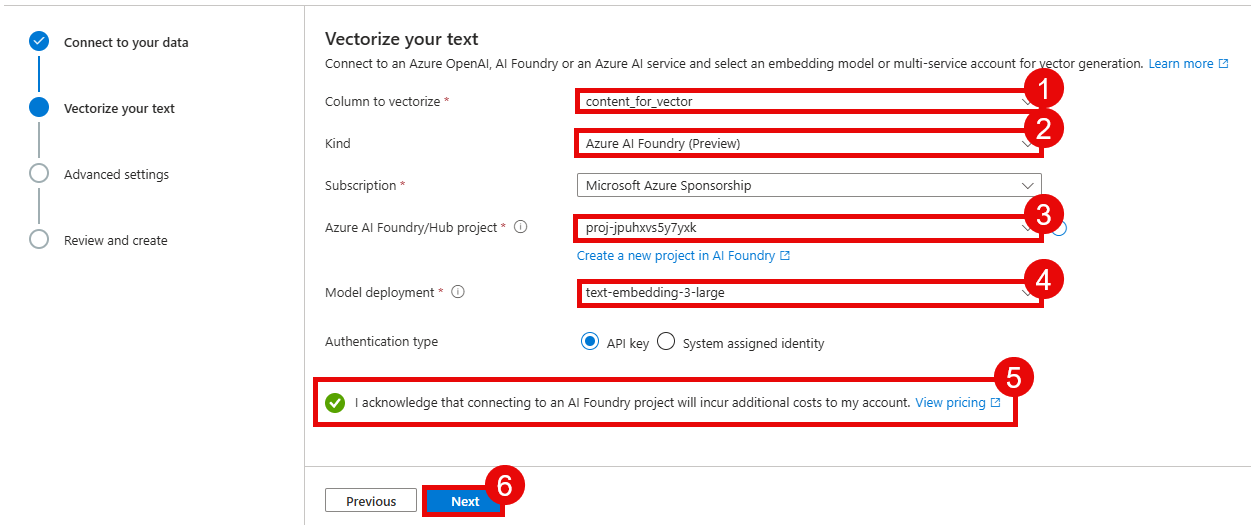
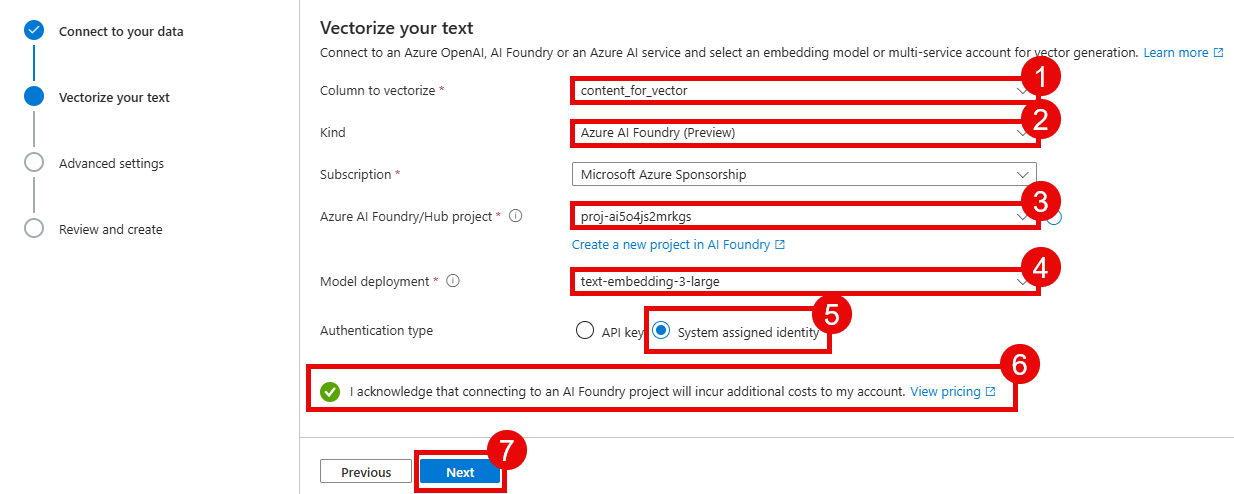
Update to support managed identities

diff --git a/src/pipelines/ingest_to_cosmos.py b/src/pipelines/ingest_to_cosmos.py
@@ -27,7 +27,7 @@ df['content_for_vector'] = (
 
 # 2. Connect to Cosmos DB
 logger = logging.getLogger(__name__)
-logging.basicConfig(level=logging.INFO)
+logging.basicConfig(level=logging.WARNING)
 
 
 def get_cosmos_client(endpoint: str | None, key: str | None = None):

diff --git a/docs/01_deploy_configure_resources/01_01.md b/docs/01_deploy_configure_resources/01_01.md
@@ -153,24 +153,26 @@ az login --use-device-code
 
 Follow the on-screen instructions to complete the sign-in process.
 
-Next, you will need to retrieve your signed-in user's principal ID and the principal ID of the Azure AI Search managed identity created by the Bicep script. You will also need to know the resource group name and the Cosmos DB account name. You can set these values as variables in your terminal session using the following commands:
+Next, retrieve the names of your Azure AI Search and Cosmos DB resources. You can do this by reviewing the output of the Bicep deployment in the Azure portal, or by navigating to the resource group in the portal and looking for the resources there. You will also need the resource group name, which is `techworkshop-l300-ai-agents` unless you named it differently. This script will also retrieve the signed-in user's principal ID.
 
 ```bash
 resourceGroup="techworkshop-l300-ai-agents"
 cosmosDbAccountName="{YOUR_COSMOS_DB_ACCOUNT_NAME}"
+aiSearchName="{YOUR_AZURE_AI_SEARCH_NAME}"
 principalId=`az ad signed-in-user show --query id -o tsv`
-aiSearchManagedIdentityId=`az search service show --resource-group $resourceGroup --name "{YOUR_AZURE_AI_SEARCH_NAME}" --query identity.principalId -o tsv`
 ```
 
-If your resource group is named differently, make sure to update the `resourceGroup` variable accordingly.
-
-You can retrieve the name of your Cosmos DB account by navigating to the resource group in the [Azure portal](https://portal.azure.com/) and looking for the Cosmos DB account resource. The name will be listed there.
-
-Then, run the following commands to grant your signed-in user the `Cosmos DB Built-in Data Contributor` for your Azure account, and `Cosmos DB Account Reader Role` for the Azure AI Search managed identity created by the Bicep script:
+Once you have these variables set, run the following commands. This will first enable the system-assigned managed identity for the Azure AI Search service, then retrieve its principal ID. Finally, it will run commands to grant your signed-in user the `Cosmos DB Built-in Data Contributor` for your Azure account, and `Cosmos DB Account Reader Role` for the Azure AI Search managed identity created by the Bicep script:
 
 ```bash
+az search service update --resource-group $resourceGroup --name $aiSearchName --set identity.type=SystemAssigned
+aiSearchManagedIdentityId=`az search service show --resource-group $resourceGroup --name "$aiSearchName" --query identity.principalId -o tsv`
 az cosmosdb sql role assignment create --account-name $cosmosDbAccountName --resource-group $resourceGroup --scope "/" --principal-id $principalId --role-definition-id "00000000-0000-0000-0000-000000000002"
-az role assignment create --assignee $principalId --role "Cosmos DB Account Reader Role" --scope "/subscriptions/$(az account show --query id -o tsv)/resourceGroups/$resourceGroup/providers/Microsoft.DocumentDB/databaseAccounts/$cosmosDbAccountName"
+az role assignment create --assignee $aiSearchManagedIdentityId --role "Cosmos DB Account Reader Role" --scope "/subscriptions/$(az account show --query id -o tsv)/resourceGroups/$resourceGroup/providers/Microsoft.DocumentDB/databaseAccounts/$cosmosDbAccountName"
+az cosmosdb sql role assignment create --account-name $cosmosDbAccountName --resource-group $resourceGroup --scope "/" --principal-id $aiSearchManagedIdentityId --role-definition-id "00000000-0000-0000-0000-000000000001"
+az cosmosdb sql role assignment create --account-name $cosmosDbAccountName --resource-group $resourceGroup --scope "/" --principal-id $aiSearchManagedIdentityId --role-definition-id "00000000-0000-0000-0000-000000000002"
 ```
+
+This will give your signed-in user the necessary permissions to write to Cosmos DB, as well as giving the Azure AI Search system-assigned managed identity appropriate access to read from a Cosmos DB container.
 
 </details>

diff --git a/docs/01_deploy_configure_resources/01_03.md b/docs/01_deploy_configure_resources/01_03.md
@@ -57,7 +57,7 @@ Scroll down to the **Container Vector Policy** section and select **Add vector e
 ![Configure the vector embedding for the Cosmos DB container.](../../media/Solution/0103_CosmosDB5.png)
 
 {: .note }
-> If you get an error trying to create the container indicating that vector search is not enabled, wait a few more minutes and try again.
+> If you get an error trying to create the container indicating that vector search is not enabled, close the New Container tab, wait a few more minutes and try again. It can take upwards of 15 minutes for this policy change to take effect, even if you see the policy's status as "On" in `az cli` or in the **Features** section of the **Settings** menu.
 
 </details>
 
@@ -145,11 +145,11 @@ Select **RAG** as the scenario to target.
 
 ![Select RAG as the scenario.](../../media/Solution/0103_Search3.png)
 
-In the **Connect to your data** menu section, choose your Cosmos DB account from the drop-down list. Then, select the **zava** database and the **product_catalog** container. After that, select **Next** to continue.
+In the **Connect to your data** menu section, choose your Cosmos DB account from the drop-down list. Then, select the **zava** database and the **product_catalog** container. Additionally, select the **Authenticate using managed identity.** option and ensure that the managed identity type is **System-assigned**. After that, select **Next** to continue.
 
 ![Connect to the Cosmos DB data source.](../../media/Solution/0103_Search4.png)
 
-On the **Vectorize your text** page, select `content_for_vector` from the drop-down list as the column to vectorize. Then, choose **Azure AI Foundry (Preview)** as the **Kind** and select your Azure AI Foundry project from the drop-down list. In the **Model deployment** drop-down list, choose `text-embedding-3-large`. After that, tick the checkbox indicating that connecting to an AI Foundry project will incur additional costs and select **Next** to continue.
+On the **Vectorize your text** page, select `content_for_vector` from the drop-down list as the column to vectorize. Then, choose **Azure AI Foundry (Preview)** as the **Kind** and select your Azure AI Foundry project from the drop-down list. In the **Model deployment** drop-down list, choose `text-embedding-3-large`. Then, select **System assigned identity** as the authentication type. After that, tick the checkbox indicating that connecting to an AI Foundry project will incur additional costs and select **Next** to continue.
 
 ![Configure the vectorization settings.](../../media/Solution/0103_Search5.png)
 

diff --git a/docs/01_deploy_configure_resources/01_02.md b/docs/01_deploy_configure_resources/01_02.md
@@ -88,6 +88,14 @@ Then, navigate to the Application Insights resource that you created in the firs
 
 ![Add connection for the Application Insights resource.](../../media/Solution/0102_ConnectResources6.png)
 
+Select the **+ New connection** button again and this time choose the **Azure AI Search** option from the list.
+
+![Add connection for the Azure AI Search resource.](../../media/Solution/0102_ConnectResources7.png)
+
+Then, navigate to the Azure AI Search resource that you created in the first task. From the **Authentication** menu, select **Microsoft Entra ID** to ensure that you use the system-assigned managed identity. Then, select the **Add connection** button associated with this Azure AI Search resource to make the connection. When you are done, select **Close** to close this modal dialog.
+
+![Add connection for the Azure AI Search resource.](../../media/Solution/0102_ConnectResources8.png)
+
 </details>
 
 ### 03: Grant storage account permissions
